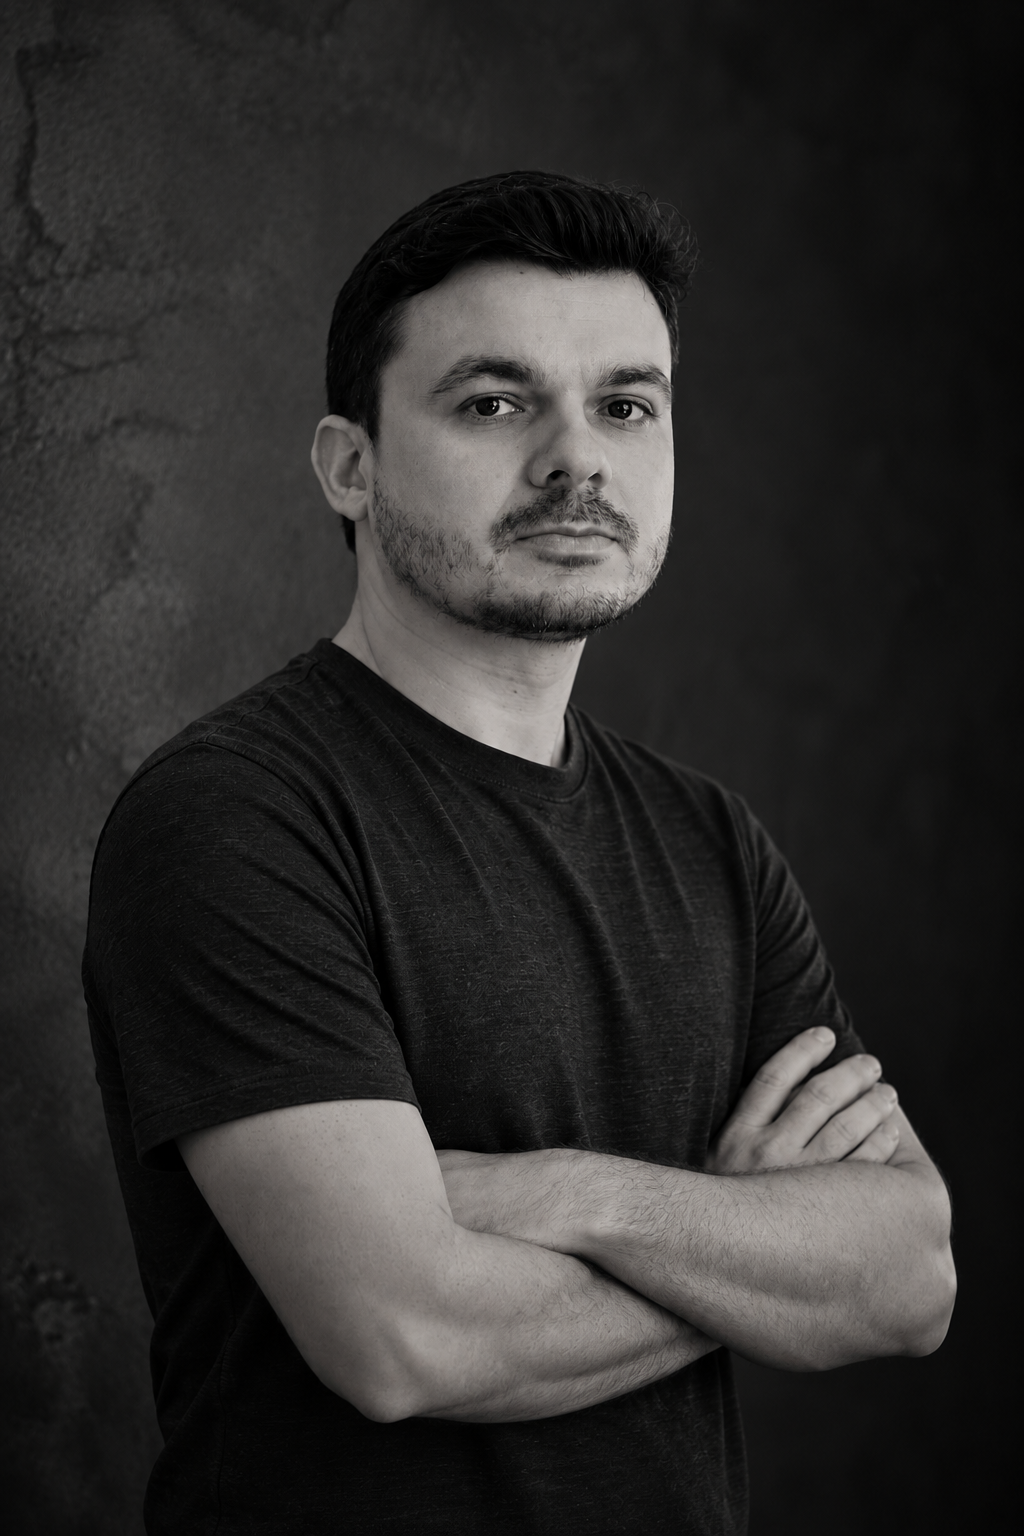
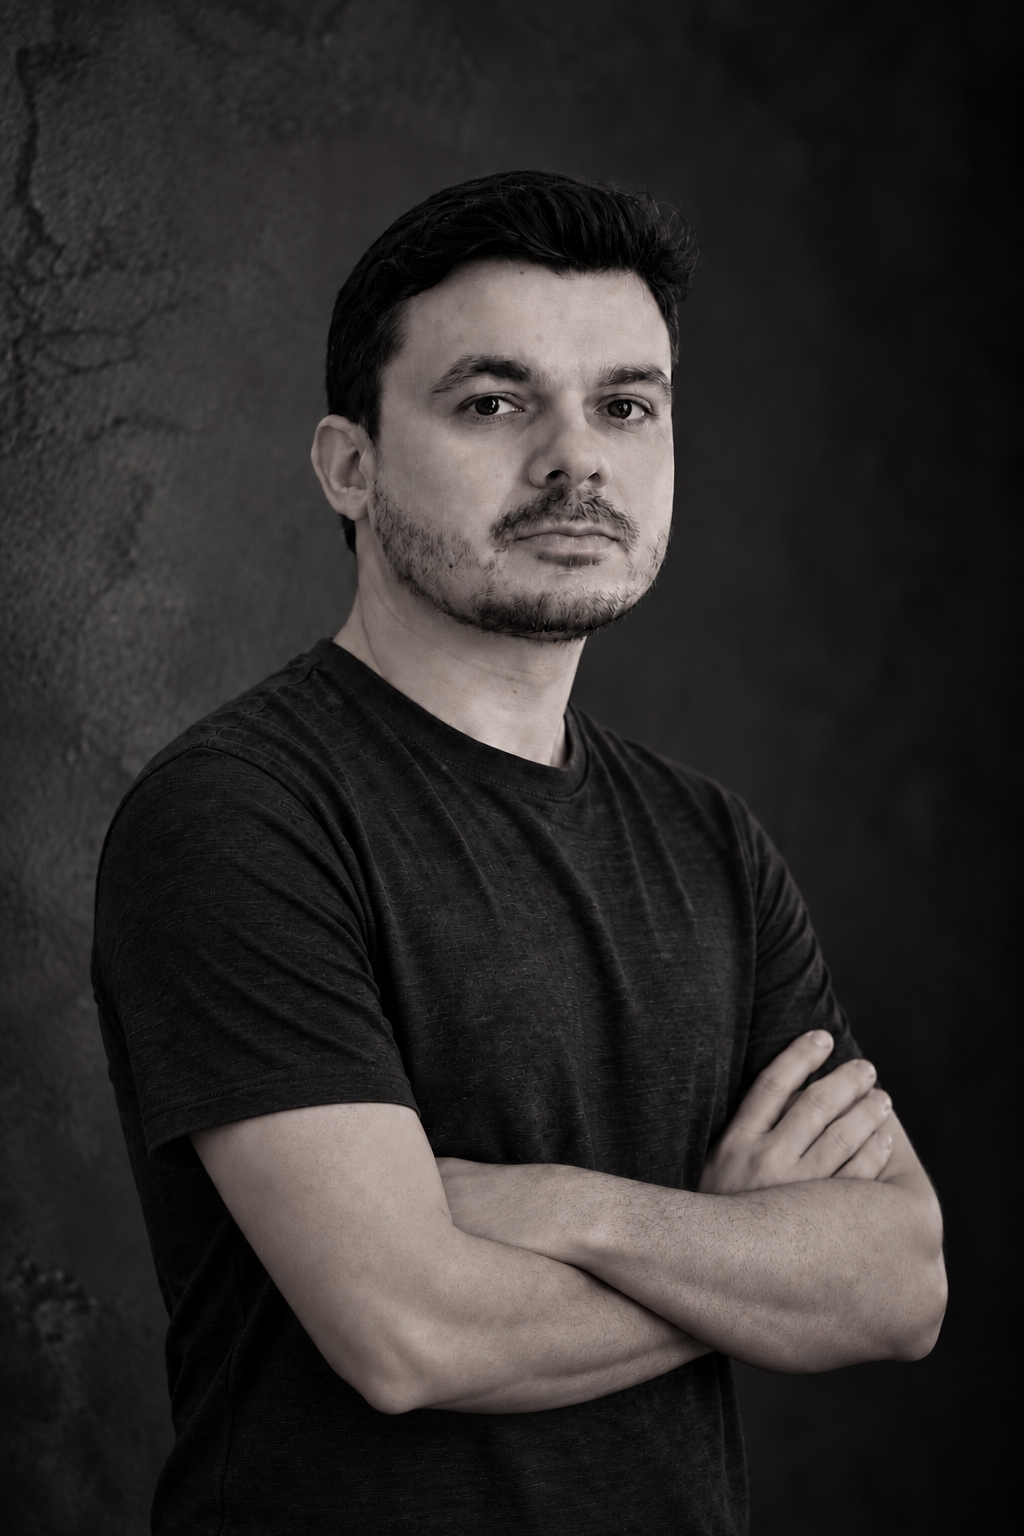
style: atualiza a imagem de perfil e ajusta a opacidade do gradiente da hero

diff --git a/src/components/sections/Hero.tsx b/src/components/sections/Hero.tsx
@@ -109,7 +109,7 @@ export function Hero() {
               {/* Fusão das bordas com o fundo */}
               <div
                 aria-hidden="true"
-                className="pointer-events-none absolute inset-0 bg-gradient-to-t from-black/60 via-transparent to-transparent"
+                className="pointer-events-none absolute inset-0 bg-gradient-to-t from-black/35 via-transparent to-transparent"
               />
               <div
                 aria-hidden="true"
